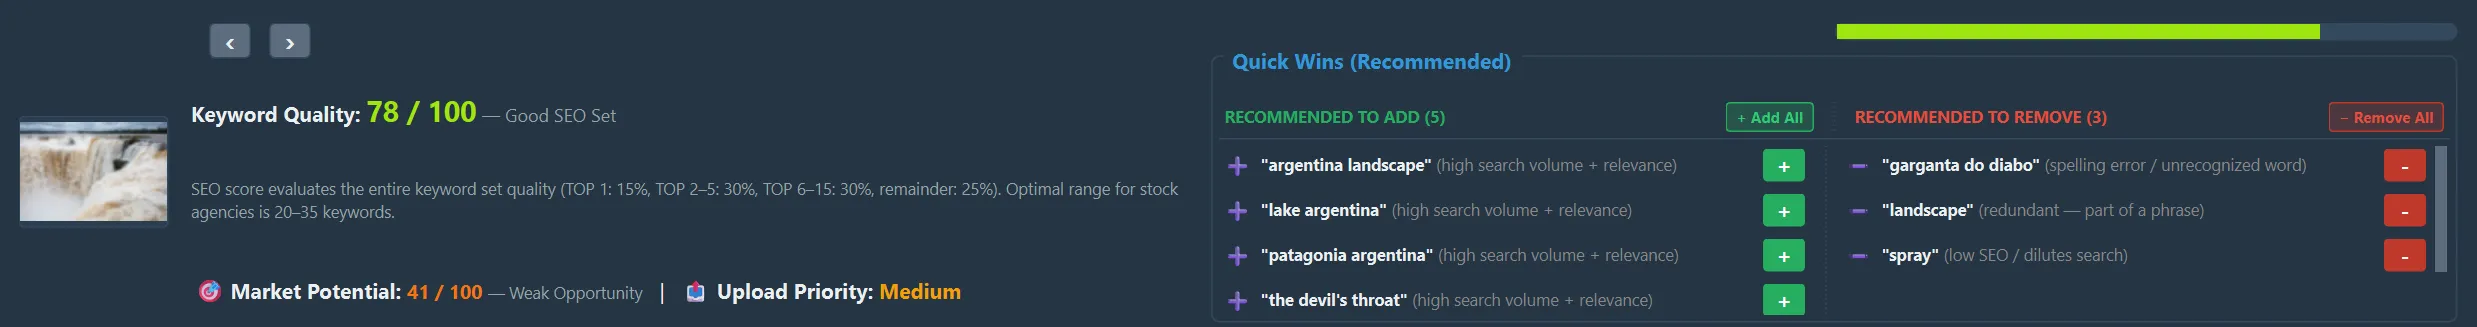
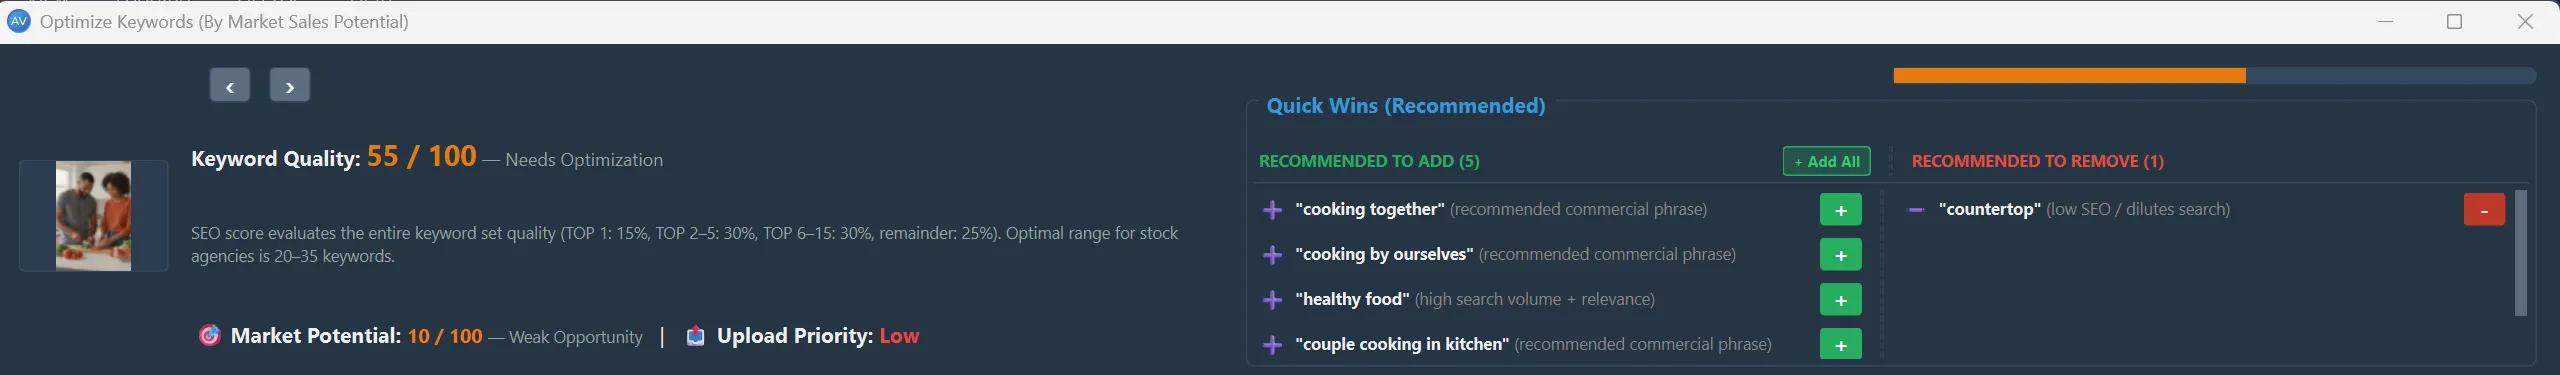
update

diff --git a/docs/microstock-seo-sales-engine.md b/docs/microstock-seo-sales-engine.md
@@ -117,14 +117,14 @@ The **Keyword Quality (0–100%)** gives you an immediate benchmark of your meta
       <div style="font-weight: 600; color: #1f2328; margin-bottom: 8px;">Quick Wins (Recommended Improvements)</div>
       <div style="margin-bottom: 6px; color: #1a7f37;">
         <span style="display: inline-block; margin-right: 4px;">➕</span> <strong>Add:</strong> 
-        <code style="background-color: rgba(27,31,35,0.06); padding: 2px 4px; border-radius: 4px; font-size: 13px;">endemic songbird</code> · 
-        <code style="background-color: rgba(27,31,35,0.06); padding: 2px 4px; border-radius: 4px; font-size: 13px;">natural habitat</code> · 
-        <code style="background-color: rgba(27,31,35,0.06); padding: 2px 4px; border-radius: 4px; font-size: 13px;">avian wildlife</code>
+        <code style="background-color: rgba(27,31,35,0.06); padding: 2px 4px; border-radius: 4px; font-size: 13px;">cooking together</code> · 
+        <code style="background-color: rgba(27,31,35,0.06); padding: 2px 4px; border-radius: 4px; font-size: 13px;">cooking by ourselves</code> · 
+        <code style="background-color: rgba(27,31,35,0.06); padding: 2px 4px; border-radius: 4px; font-size: 13px;">healthy food</code>
+        <code style="background-color: rgba(27,31,35,0.06); padding: 2px 4px; border-radius: 4px; font-size: 13px;">couple cooking in kitchen</code>
       </div>
       <div style="color: #cf222e;">
         <span style="display: inline-block; margin-right: 4px;">➖</span> <strong>Remove:</strong> 
-        <code style="background-color: rgba(27,31,35,0.06); padding: 2px 4px; border-radius: 4px; font-size: 13px;">background (redundant)</code> · 
-        <code style="background-color: rgba(27,31,35,0.06); padding: 2px 4px; border-radius: 4px; font-size: 13px;">animalia (overly broad)</code>
+        <code style="background-color: rgba(27,31,35,0.06); padding: 2px 4px; border-radius: 4px; font-size: 13px;">countertop (low SEO / Dilutes search)</code> · 
       </div>
     </td>
   </tr>
